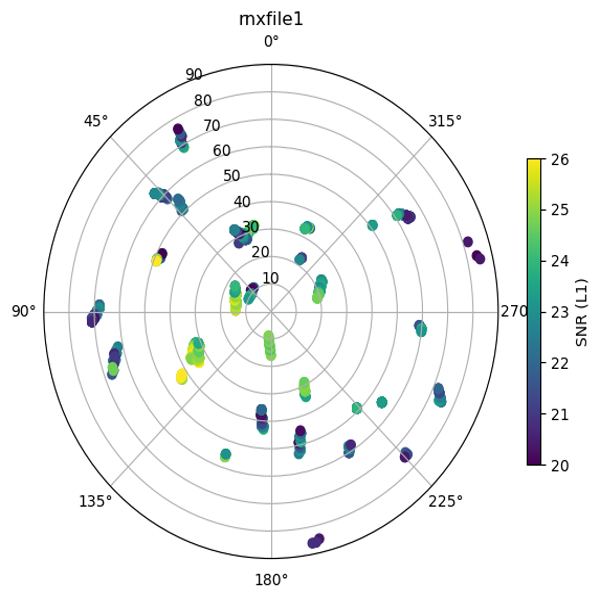
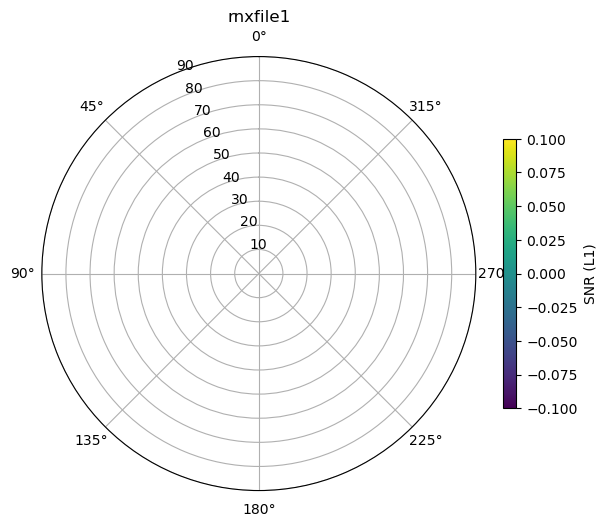
some differences between pi and home, not sure

diff --git a/UBXtoRNX/constUBXtoRNXconv.py b/UBXtoRNX/constUBXtoRNXconv.py
@@ -139,7 +139,7 @@ def correctazielev(rnxFilename, azielevFilename):
 	azielevFile.write(correctedazielev)
 	azielevFile.close()
 
-def UBXtoRNX(conv, fileno, waitTime=60, epochInterval=10):
+def UBXtoRNX(fileno, conv=mkconv(), waitTime=60, epochInterval=10):
 	# Connect to Sparkfun chip through COMPORT
 	stream = Serial(COMPORT, 9600, timeout=10)
 	ubr = UBXReader(stream)
